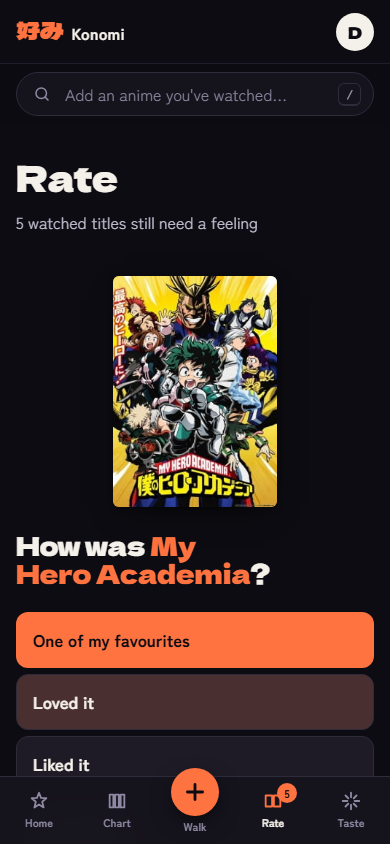
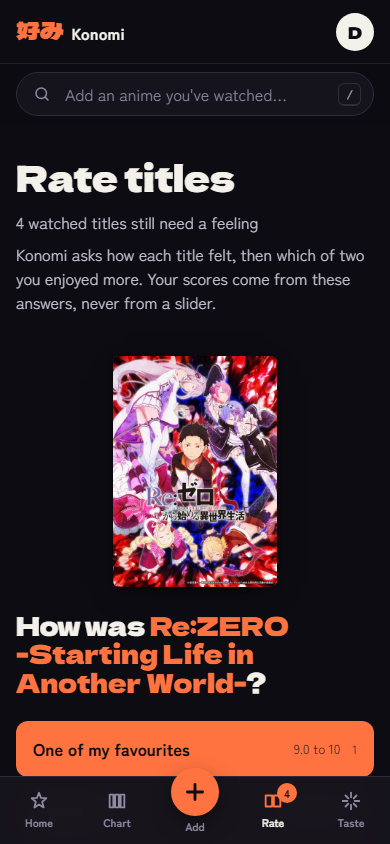
Rename tabs: Add by season, Rate titles; explain Rate

diff --git a/web/src/app/Layout.tsx b/web/src/app/Layout.tsx
@@ -119,9 +119,9 @@ export function Layout() {
           {me ? (
             <>
               <NavLink to="/chart">Chart</NavLink>
-              <NavLink to="/sweep">Season walk</NavLink>
+              <NavLink to="/sweep">Add by season</NavLink>
               <NavLink to="/rate" className="has-badge">
-                Rate{unrated > 0 && <span className="badge">{unrated > 99 ? '99+' : unrated}</span>}
+                Rate titles{unrated > 0 && <span className="badge">{unrated > 99 ? '99+' : unrated}</span>}
               </NavLink>
               <NavLink to="/taste" onPointerEnter={warmTaste} onFocus={warmTaste}>Taste</NavLink>
             </>
@@ -157,7 +157,7 @@ export function Layout() {
         <nav className="bottombar" aria-label="Main">
           <NavLink to="/" end><Icon name="taste" size={22} /><span>Home</span></NavLink>
           <NavLink to="/chart"><Icon name="chart" size={22} /><span>Chart</span></NavLink>
-          <NavLink to="/sweep" className="bb-add"><span className="bb-plus"><Icon name="plus" size={26} stroke={2.6} /></span><span>Walk</span></NavLink>
+          <NavLink to="/sweep" className="bb-add"><span className="bb-plus"><Icon name="plus" size={26} stroke={2.6} /></span><span>Add</span></NavLink>
           <NavLink to="/rate" className="has-badge"><Icon name="duel" size={22} /><span>Rate</span>
             {unrated > 0 && <span className="badge">{unrated > 99 ? '99+' : unrated}</span>}</NavLink>
           <NavLink to="/taste" onTouchStart={warmTaste} onPointerEnter={warmTaste}><Icon name="sparkle" size={22} /><span>Taste</span></NavLink>

diff --git a/web/src/features/rate/RatePage.tsx b/web/src/features/rate/RatePage.tsx
@@ -68,12 +68,16 @@ export function RatePage() {
   return (
     <div className="page ratepage">
       <header className="rate-head">
-        <h1 className="display rate-title">Rate</h1>
+        <h1 className="display rate-title">Rate titles</h1>
         <p className="muted">
           {answered > 0 && <><strong className="rate-count">{answered}</strong> answered · </>}
           {data && data.unrated > 0 ? `${data.unrated} watched title${data.unrated === 1 ? '' : 's'} still need a feeling` : 'Every answer sharpens your scores and Konomi’s guesses.'}
         </p>
       </header>
+      <p className="rate-lead">
+        Konomi asks how each title felt, then which of two you enjoyed more. Your scores come from these answers,
+        never from a slider.
+      </p>
 
       <div className="rate-stage">
         <AnimatePresence mode="wait">
@@ -84,7 +88,7 @@ export function RatePage() {
                 <h2 className="display">All caught up</h2>
                 <p className="muted">Add more anime, or walk through a few past seasons.</p>
                 <div className="rate-done-actions">
-                  <Link to="/sweep" className="btn btn-primary">Season walk</Link>
+                  <Link to="/sweep" className="btn btn-primary">Add by season</Link>
                   <Link to="/taste" className="btn">See your taste</Link>
                 </div>
               </div>

diff --git a/web/src/features/add/SweepPage.tsx b/web/src/features/add/SweepPage.tsx
@@ -59,8 +59,8 @@ export function SweepPage() {
     <div className="page sweep" data-season={season}>
       <header className="sweep-head">
         <div>
-          <h1 className="display sweep-title">Season walk</h1>
-          <p className="muted sweep-lead">Tap everything you’ve watched. Walk back in time, one season at a time.</p>
+          <h1 className="display sweep-title">Add by season</h1>
+          <p className="muted sweep-lead">Seeing the covers brings back what you watched. Tap everything you’ve seen, then step back a season.</p>
         </div>
         <div className="sweep-eras" role="group" aria-label="Jump to a year">
           {ERAS.map((y) => (
@@ -85,7 +85,7 @@ export function SweepPage() {
 
       <footer className="sweep-foot">
         <button className="btn btn-primary sweep-next" onClick={() => go(prev)}>
-          Walk back to {SEASON_LABEL[prev.season]} {prev.year} <Icon name="arrowRight" size={18} />
+          Back to {SEASON_LABEL[prev.season]} {prev.year} <Icon name="arrowRight" size={18} />
         </button>
         {walked > 0 && <Link to="/rate" className="btn">Rate what you marked</Link>}
         <p className="faint sweep-keys">Keyboard: hover a cover, then <kbd>S</kbd> watched · <kbd>D</kbd> dropped · <kbd>W</kbd> want · <kbd>X</kbd> clear · <kbd>Shift</kbd>+<kbd>←</kbd> earlier</p>

diff --git a/web/src/features/profile/ImportPanel.tsx b/web/src/features/profile/ImportPanel.tsx
@@ -65,7 +65,7 @@ export function ImportPanel() {
         <p className="import-ok">
           Added <strong>{res.added}</strong>{res.skipped ? `, ${res.skipped} already on your chart` : ''}
           {res.unmatched ? `, ${res.unmatched} not in the catalogue` : ''}. Their old scores only picked a feeling.
-          A few duels in <a href="/rate">Rate</a> will sharpen them.
+          A few quick comparisons in <a href="/rate">Rate titles</a> will sharpen them.
         </p>
       )}
       {err && <p className="auth-err" role="alert">{err}</p>}

diff --git a/web/src/features/home/HomePage.tsx b/web/src/features/home/HomePage.tsx
@@ -87,7 +87,7 @@ export function HomePage() {
             {empty && (
               <p className="muted home-hint">
                 Type a title and press Enter. It lands on your chart. Or tap what you’ve seen this season below,{' '}
-                <Link to="/sweep">walk back through past seasons</Link>,
+                <Link to="/sweep">add by season, going back in time</Link>,
                 or <Link to="/settings#import">import your MyAnimeList or AniList list</Link>.
               </p>
             )}

diff --git a/web/src/features/list/ChartPage.tsx b/web/src/features/list/ChartPage.tsx
@@ -58,7 +58,7 @@ export function ChartPage() {
       <div className="page chart-empty">
         <h1 className="display">Your chart is empty</h1>
         <p className="muted">Type any anime in the search bar and press Enter. Or walk through past seasons and tap what you’ve seen.</p>
-        <Link to="/sweep" className="btn btn-primary">Start a season walk</Link>
+        <Link to="/sweep" className="btn btn-primary">Add by season</Link>
       </div>
     )
   }

diff --git a/web/src/features/rate/ratepage.css b/web/src/features/rate/ratepage.css
@@ -3,6 +3,7 @@
 .ratepage { max-width: 1280px; }
 .rate-head { display: flex; align-items: baseline; justify-content: space-between; gap: var(--s4); flex-wrap: wrap; }
 .rate-title { font-size: clamp(36px, 6vw, 72px); line-height: 1; }
+.rate-lead { max-width: 62ch; color: var(--paper-2); margin-top: var(--s3); }
 .rate-count { color: var(--season); }
 .rate-stage { margin-top: clamp(24px, 5vh, 64px); min-height: 60vh; }
 .rate-q { display: grid; }
